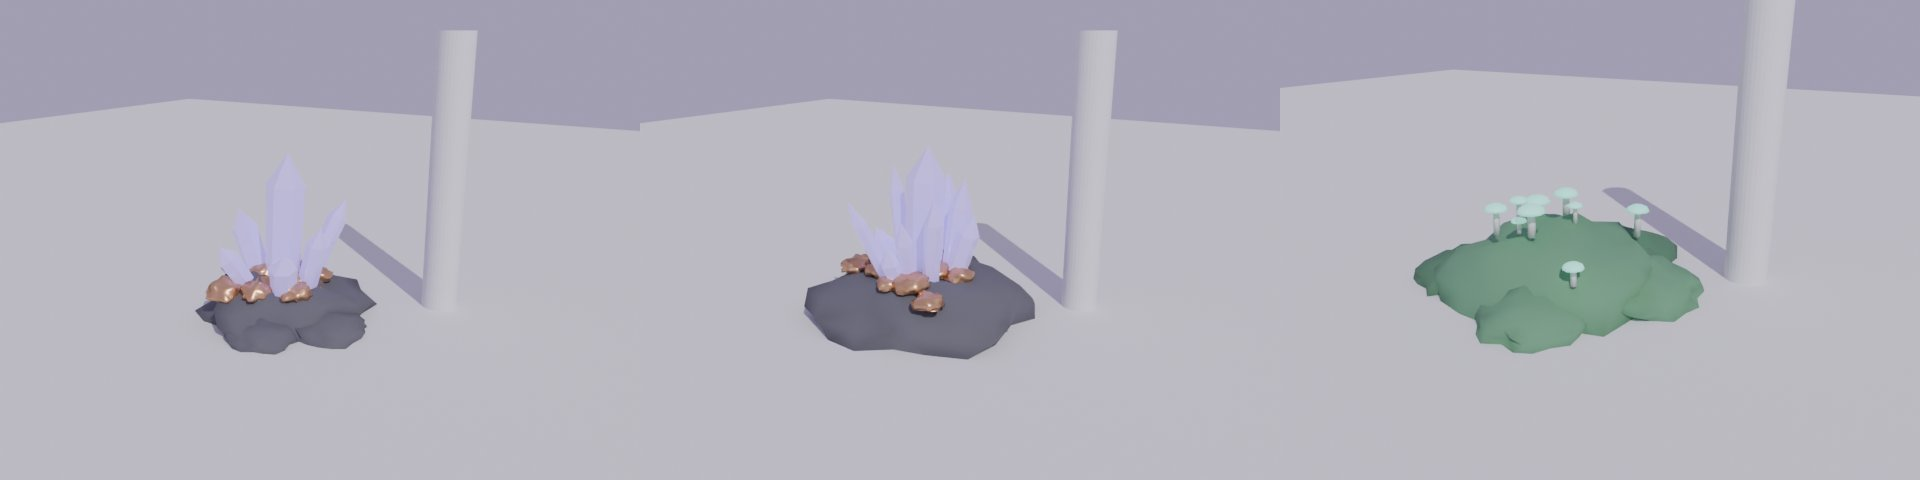
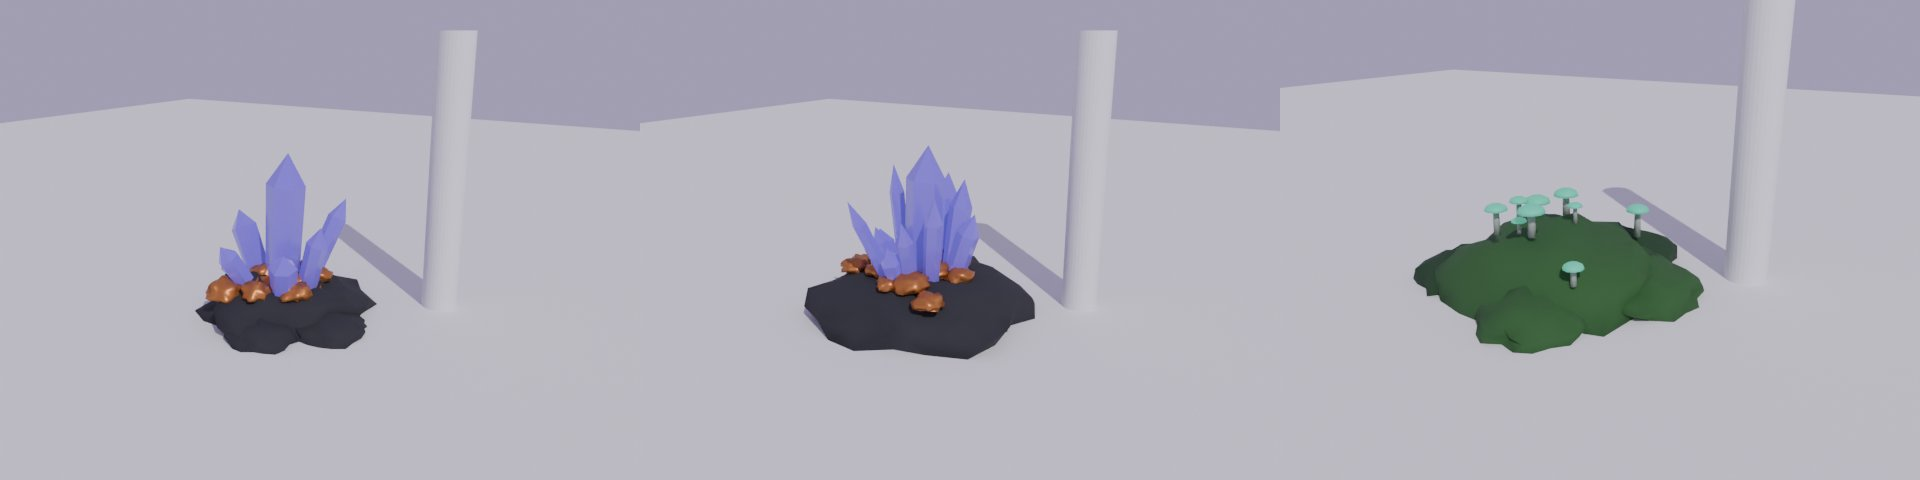
F41#9 harvest nodes: author colours from sRGB targets (OFF)
The first unjudged capture showed the nodes washed near-white: glTF colours
are linear and display as sRGB, so the mid-tone albedos read pale under the
storm ambient. Basalt, copper, glass and moss are now dark sRGB targets.

Claude-Session: https://claude.ai/code/session_01GPgpLU9KbL7fS6ajxUp4My

Changed region(s): [[0.7188, 0.375, 0.9062, 0.75], [0.4062, 0.3125, 0.5625, 0.75], [0.0938, 0.3125, 0.2188, 0.75]]

diff --git a/ralph/reports/LANES/ITEM-F41-9/build_harvest_nodes.py b/ralph/reports/LANES/ITEM-F41-9/build_harvest_nodes.py
@@ -16,7 +16,14 @@ argv = sys.argv[sys.argv.index("--") + 1:]
 OUT = argv[0]
 PREVIEW = argv[1] if len(argv) > 1 else ""
 
+def lin(hexrgb):
+    # glTF colours are linear; Godot shows them as sRGB, so author from sRGB targets.
+    c = [int(hexrgb[i:i + 2], 16) / 255.0 for i in (1, 3, 5)]
+    return tuple(x / 12.92 if x <= 0.04045 else ((x + 0.055) / 1.055) ** 2.4 for x in c)
+
 def material(name, rgb, metallic=0.0, rough=0.8, emit=None, strength=0.0):
+    rgb = lin(rgb) if isinstance(rgb, str) else rgb
+    emit = lin(emit) if isinstance(emit, str) else emit
     m = bpy.data.materials.new(name); m.use_nodes = True
     b = m.node_tree.nodes["Principled BSDF"]
     b.inputs["Base Color"].default_value = (*rgb, 1)
@@ -88,9 +95,9 @@ def preview(path, dist=3.2, h=0.9):
 def glass_node(path, crown, seed, prev):
     reset()
     rng = random.Random(seed)
-    M_GLASS = material("storm_glass", (0.42, 0.33, 0.78), rough=0.12, emit=(0.55, 0.45, 1.0), strength=0.6)
-    M_COPPER = material("storm_copper", (0.72, 0.42, 0.22), metallic=0.85, rough=0.35)
-    M_BASALT = material("storm_basalt", (0.12, 0.12, 0.14), rough=0.9)
+    M_GLASS = material("storm_glass", "#6a54c4", rough=0.12, emit="#7a68e0", strength=0.35)
+    M_COPPER = material("storm_copper", "#b8743c", metallic=0.6, rough=0.4)
+    M_BASALT = material("storm_basalt", "#2a2a30", rough=0.9)
     bm_g = bmesh.new(); bm_c = bmesh.new(); bm_b = bmesh.new()
     # basalt matrix
     lump(bm_b, Vector((0, 0, 0.0)), 0.55 if not crown else 0.7, 0.45, seed, amp=0.35)
@@ -130,10 +137,10 @@ def glass_node(path, crown, seed, prev):
 def moss_node(path, seed, prev):
     reset()
     rng = random.Random(seed)
-    M_MOSS = material("glow_moss", (0.13, 0.32, 0.17), rough=0.95)
-    M_MOSS_DK = material("glow_moss_dark", (0.08, 0.2, 0.11), rough=0.95)
-    M_CAP = material("glow_cap", (0.28, 0.75, 0.62), rough=0.5, emit=(0.32, 0.9, 0.7), strength=0.8)
-    M_STEM = material("glow_stem", (0.7, 0.75, 0.68), rough=0.7)
+    M_MOSS = material("glow_moss", "#2f5a2c", rough=0.95)
+    M_MOSS_DK = material("glow_moss_dark", "#1f3f22", rough=0.95)
+    M_CAP = material("glow_cap", "#3fae8f", rough=0.5, emit="#4fd3a8", strength=0.5)
+    M_STEM = material("glow_stem", "#9aa596", rough=0.7)
     bm_m = bmesh.new(); bm_d = bmesh.new(); bm_c = bmesh.new(); bm_s = bmesh.new()
     lump(bm_m, Vector((0, 0, 0)), 0.6, 0.55, seed, detail=3.0, amp=0.28)
     for k in range(5):
